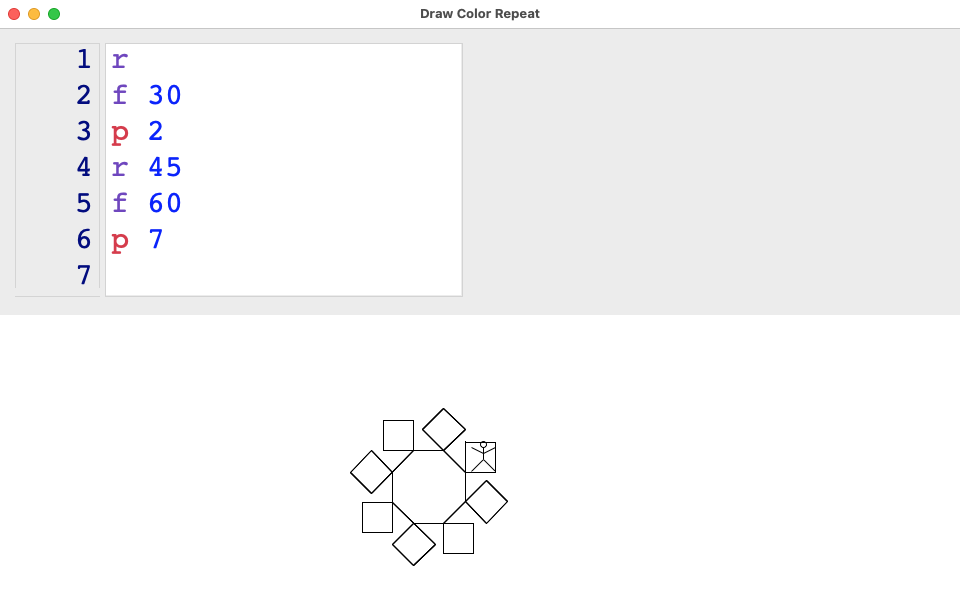
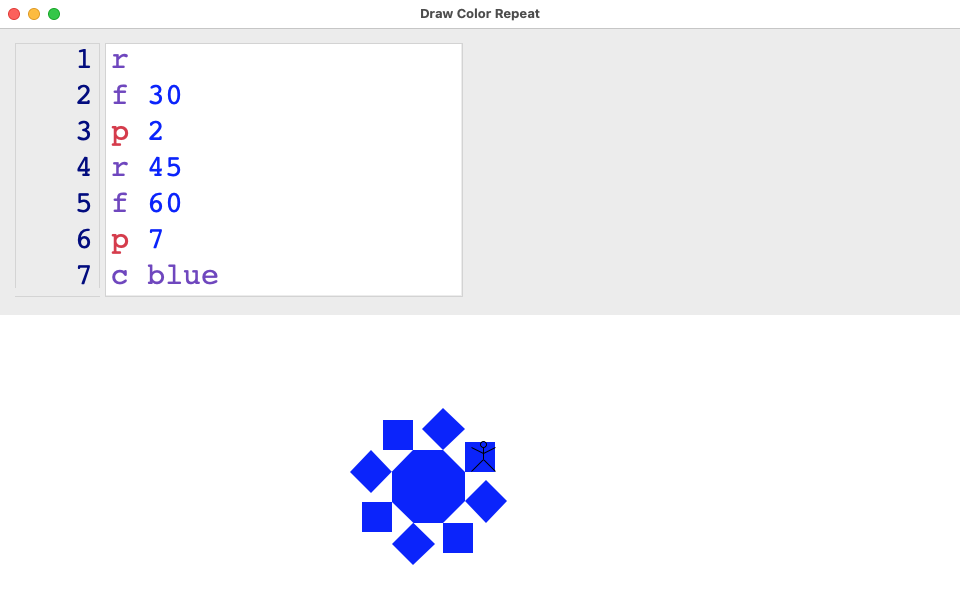
Support color

Changed region(s): [[0.3438, 0.69, 0.5312, 0.96], [0.0938, 0.45, 0.25, 0.48]]

diff --git a/app/models/dcr/command/forward.rb b/app/models/dcr/command/forward.rb
@@ -3,18 +3,20 @@ require_relative '../polygon'
 class Dcr
   class Command
     class Forward < Command
+      command_alias 'f'
+    
       def call
         p1 = java.awt.geom.Point2D::Double.new(value, 0)
         p2 = java.awt.geom.Point2D::Double.new(0, 0)
         t = java.awt.geom.AffineTransform.new
         t.set_to_rotation(@program.angle*(Math::PI/2.0)/90.0 - Math::PI/2.0)
         t.transform(p1, p2)
-        @program.polygons << Polygon.new(
-          @program.location_x, @program.location_y,
-          @program.location_x + p2.x, @program.location_y + p2.y
-        )
-        @program.location_x = @program.location_x + p2.x
-        @program.location_y = @program.location_y + p2.y
+        new_x = @program.location_x + p2.x
+        new_y = @program.location_y + p2.y
+        @program.polygons.last.point_array += [new_x, new_y]
+        @program.notify_observers(:polygons) # TODO do away with this using nested data-binding
+        @program.location_x = new_x
+        @program.location_y = new_y
       end
       
       def value

diff --git a/app/models/dcr/command/backward.rb b/app/models/dcr/command/backward.rb
@@ -1,18 +1,20 @@
 class Dcr
   class Command
     class Backward < Command
+      command_alias 'b'
+    
       def call
         p1 = java.awt.geom.Point2D::Double.new(value, 0)
         p2 = java.awt.geom.Point2D::Double.new(0, 0)
         t = java.awt.geom.AffineTransform.new
         t.set_to_rotation(@program.angle*(Math::PI/2.0)/90.0 - Math::PI/2.0)
         t.transform(p1, p2)
-        @program.polygons << Polygon.new(
-          @program.location_x, @program.location_y,
-          @program.location_x - p2.x, @program.location_y - p2.y
-        )
-        @program.location_x = @program.location_x - p2.x
-        @program.location_y = @program.location_y - p2.y
+        new_x = @program.location_x - p2.x
+        new_y = @program.location_y - p2.y
+        @program.polygons.last.point_array += [new_x, new_y]
+        @program.notify_observers(:polygons) # TODO do away with this using nested data-binding
+        @program.location_x = new_x
+        @program.location_y = new_y
       end
       
       def value

diff --git a/app/models/dcr/program.rb b/app/models/dcr/program.rb
@@ -1,4 +1,5 @@
 require_relative 'command'
+require_relative 'polygon'
 
 class Dcr
   # A DCR program that takes text (representing commands) and board width/height for drawing polygons
@@ -13,7 +14,6 @@ class Dcr
     
     def initialize(text: '', board_width: 960, board_height: 284)
       @commands = []
-      @polygons = []
       @board_width = board_width
       @board_height = board_height
       @text = text
@@ -34,10 +34,9 @@ class Dcr
     end
     
     def reset!
-      self.angle = 0
-      self.polygons.clear
       reset_location!
       reset_angle!
+      reset_polygons!
     end
     
     def reset_location!
@@ -49,6 +48,10 @@ class Dcr
     # Resets angle (0 means upward / north). Angle value is clockwise.
     def reset_angle!
       self.angle = 0 # means pointing upward (north)
+    end
+    
+    def reset_polygons!
+      self.polygons = [Polygon.new(location_x, location_y)]
     end
     
     private

diff --git a/app/views/dcr/app_view.rb b/app/views/dcr/app_view.rb
@@ -74,6 +74,9 @@ class Dcr
           @canvas_container = scrolled_composite(:none) {
             @canvas = canvas {
               background :white
+           
+              # This is where drawn shapes are added
+              @polygon_container = shape(0, 0, :max, :max)
               
               # TODO show arrow pointing in the right direction (based on program.angle)
               @stick_figure = stick_figure(
@@ -82,9 +85,6 @@ class Dcr
                 location_x bind(self, 'program.location_x')
                 location_y bind(self, 'program.location_y')
               }
-           
-              # This is where drawn shapes are added
-              @polygon_container = shape(0, 0, :max, :max)
             }
           }
         }

diff --git a/app/models/dcr/command/color.rb b/app/models/dcr/command/color.rb
@@ -1,7 +1,28 @@
 class Dcr
   class Command
     class Color < Command
+      COLORS = [
+        'black',
+        'blue',
+        'cyan',
+        'gray',
+        'green',
+        'magenta',
+        'red',
+        'white',
+        'yellow',
+      ]
+      command_alias 'c'
       command_exclusion 'r'
+      
+      def call
+        @program.polygons.last&.background = value
+        @program.notify_observers(:polygons)
+      end
+      
+      def value
+        @value.to_s.empty? ? COLORS.sample : @value.to_s
+      end
     end
   end
 end

diff --git a/app/models/dcr/command/repeat.rb b/app/models/dcr/command/repeat.rb
@@ -1,6 +1,8 @@
 class Dcr
   class Command
     class Repeat < Command
+      command_alias 'p'
+      
       def call
         command_index_of_self = @program.expanded_commands.index(self)
         commands_up_to_self = @program.expanded_commands[0...command_index_of_self]

diff --git a/app/models/dcr/command/right.rb b/app/models/dcr/command/right.rb
@@ -1,6 +1,8 @@
 class Dcr
   class Command
     class Right < Command
+      command_alias 'r'
+    
       def call
         @program.angle += value
       end

diff --git a/app/models/dcr/command/left.rb b/app/models/dcr/command/left.rb
@@ -1,6 +1,7 @@
 class Dcr
   class Command
     class Left < Command
+      command_alias 'l'
       command_exclusion 'f'
       
       def call

diff --git a/README.md b/README.md
@@ -60,6 +60,7 @@ p 2
 r 45
 f 60
 p 7
+c blue
 ```
 
 Screenshot:
